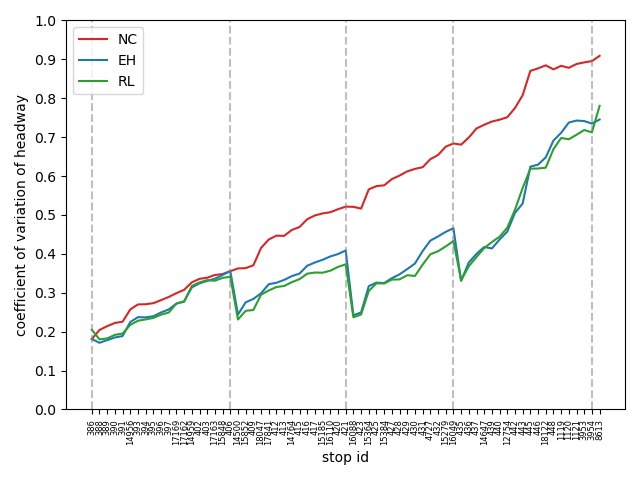
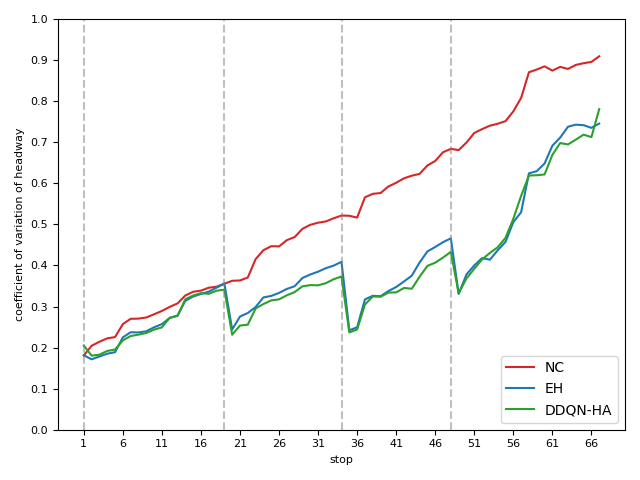
tr-c paper graphs

diff --git a/src/04_SIMULATION/trc_paper.py b/src/04_SIMULATION/trc_paper.py
@@ -1,0 +1,59 @@
+import matplotlib.pyplot as plt
+import numpy as np
+import pandas as pd
+from post_process import *
+
+x = np.arange(0, 1.2, 1/3)
+y0 = np.array([1/3, 1, 2, 10/3])
+y1 = np.array([2, 1, 1/3, 0])
+y_sum = y0 + y1
+idx_min = np.argmin(y_sum)
+fig, ax = plt.subplots()
+ax.plot(x, y0, label='bus $\it{i}$')
+ax.plot(x, y1, label='bus $\it{i+1}$')
+ax.plot(x, y_sum, label='total')
+ax.set_xlabel('hold time of bus $\it{i}$ (units of $\it{H}$)')
+ax.set_ylabel('total wait time')
+ax.set_xticks(x)
+ax.set_xticklabels(['0', '1/3', '2/3', '1'])
+plt.axvline(1/3,alpha=0.3, color='gray', linestyle='dashed')
+plt.yticks([])
+plt.legend()
+plt.show()
+
+
+stops = load('in/xtr/rt_20-2019-09/route_stops.pkl')
+trips = pd.read_csv('out/trajectories2.csv')
+trips_sub = trips[trips['replication'] == 2]
+idx = stops.index('16049')
+focus_stops = [int(stops[i]) for i in range(idx-5, idx + 5)]
+trips_sub = trips_sub[trips_sub['stop_id'].isin(focus_stops)]
+trips_sub['stop_seq'] = np.nan
+j = 0
+for s in focus_stops:
+    trips_sub.loc[trips_sub['stop_id'] == s, 'stop_seq'] = j
+    j += 1
+trip_ids = trips_sub['trip_id'].unique().tolist()
+t0 = 27000
+t1 = 33000
+for t in trip_ids:
+    trips_sub_id = trips_sub[trips_sub['trip_id'] == t]
+    x1, y1 = trips_sub_id['arr_sec'].to_numpy(), trips_sub_id['stop_seq'].to_numpy()
+    mask = (x1 > t0) & (x1 < t1)
+    x1 = x1[mask]
+    y1 = y1[mask]
+    x2, y2 = trips_sub_id['dep_sec'].to_numpy(), trips_sub_id['stop_seq'].to_numpy()
+    mask = (x2 > t0) & (x2 < t1)
+    x2 = x2[mask]
+    y2 = y2[mask]
+    x = np.append(x1, x2)
+    y = np.append(y1, y2)
+    sorted_idx = np.argsort(y)
+    x = x[sorted_idx]
+    y = y[sorted_idx]
+    plt.plot(x, y, color='darkturquoise')
+plt.xlabel('seconds', fontsize=8)
+plt.xticks([i for i in range(29500, 32500, 500)], fontsize=8)
+plt.yticks([i for i in range(len(focus_stops))], [i for i in range(idx-5, idx+5)], fontsize=8)
+plt.ylabel('stop', fontsize=8)
+plt.show()

diff --git a/src/04_SIMULATION/post_process.py b/src/04_SIMULATION/post_process.py
@@ -725,24 +725,23 @@ def plot_headway_benchmark(cv_hw_set, ordered_stops, lbls, colors, pathname=None
     x = np.arange(len(ordered_stops))
     j = 0
     for cv in cv_hw_set:
-        # x = []
-        # y = []
-        # for i in range(len(ordered_stops)):
-        #     s = ordered_stops[i]
-        #     y.append(hs[s])
-
         ax1.plot(x, cv, color=colors[j], label=lbls[j])
         j += 1
 
-    ax1.set_xlabel('stop id')
-    ax1.set_ylabel('coefficient of variation of headway')
+    ax1.set_xlabel('stop', fontsize=8)
+    ax1.set_ylabel('coefficient of variation of headway', fontsize=8)
     ax1.set_yticks(np.arange(cv_scale[0], cv_scale[1] + cv_scale[2], cv_scale[2]))
+    ax1.set_yticklabels(np.arange(cv_scale[0], cv_scale[1] + cv_scale[2], cv_scale[2]).round(decimals=1), fontsize=8)
     if controlled_stops:
         for cs in controlled_stops:
             idx = ordered_stops.index(cs)
             plt.axvline(x=idx, color='gray', alpha=0.5, linestyle='dashed')
-    ax1.set_xticks(x)
-    ax1.set_xticklabels(ordered_stops, fontsize=6, rotation=90)
+    # ax1.set_xticks(x)
+    # ax1.set_xticklabels(ordered_stops, fontsize=6, rotation=90)
+    x_ticks = np.arange(0, len(ordered_stops), 5)
+    x_tick_labels = x_ticks + 1
+    ax1.set_xticks(x_ticks)
+    ax1.set_xticklabels(x_tick_labels, fontsize=8)
     plt.legend()
     plt.tight_layout()
     if pathname:

diff --git a/src/04_SIMULATION/main_simul.py b/src/04_SIMULATION/main_simul.py
@@ -197,13 +197,13 @@ path_p_rl = 'out/RL/pax_set_0106-191406.pkl'
 # #
 
 # PROCESS RAW RESULTS
-# path_trips = [path_tr_nc, path_tr_eh, path_tr_rl]
-# path_pax = [path_p_nc, path_p_eh, path_p_rl]
-# tags = ['NC', 'EH', 'RL']
-# post_processor = PostProcessor(path_trips, path_pax, tags)
+path_trips = [path_tr_nc, path_tr_eh, path_tr_rl]
+path_pax = [path_p_nc, path_p_eh, path_p_rl]
+tags = ['NC', 'EH', 'DDQN-HA']
+post_processor = PostProcessor(path_trips, path_pax, tags)
 # post_processor.write_trajectories()
 # post_processor.total_trip_time_distribution()
-# post_processor.headway()
+post_processor.headway()
 # post_processor.load_profile()
 # post_processor.denied()
 # post_processor.hold_time()
@@ -213,14 +213,14 @@ path_p_rl = 'out/RL/pax_set_0106-191406.pkl'
 
 
 # VALIDATION
-path_trips = [path_tr_nc]
-path_pax = [path_p_nc]
-post_processor = PostProcessor(path_trips, path_pax, ['NC'])
+# path_trips = [path_tr_nc]
+# path_pax = [path_p_nc]
+# post_processor = PostProcessor(path_trips, path_pax, ['NC'])
 # post_processor.departure_delay_validation()
 # post_processor.dwell_time_validation()
 # post_processor.trip_time_dist_validation()
 # post_processor.load_profile_validation()
-post_processor.load_profile_base()
+# post_processor.load_profile_base()
 
 # PROCESS TRAJECTORIES FILE
 # stops = post_process.load('in/xtr/rt_20-2019-09/route_stops.pkl')

diff --git a/src/04_SIMULATION/scratch.py b/src/04_SIMULATION/scratch.py
@@ -15,29 +15,3 @@ from scipy.stats import lognorm, norm
 import seaborn as sn
 from post_process import *
 
-
-class Bus:
-    def __init__(self, bus_id, active_trip=None, next_event_time=None):
-        self.active_trip = active_trip
-        self.bus_id = bus_id
-        self.next_event_time = next_event_time
-
-
-buses = [Bus(i, i + 10, i*10) for i in range(10)]
-buses.append(Bus(10))
-buses.append(Bus(11, 11+10, 0))
-
-active_buses = [bus for bus in buses if bus.active_trip]
-
-next_bus = min(active_buses, key=lambda bus: bus.next_event_time)
-print(next_bus)
-
-next_event_times = [bus.next_event_time for bus in active_buses]
-min_event_time = min(next_event_times)
-min_event_time_idxs = [i for i, x in enumerate(next_event_times) if x == min_event_time]
-print(min_event_time_idxs)
-for i in min_event_time_idxs:
-    print(active_buses[i])
-print(buses[0])
-print(buses[-1])
-

diff --git a/src/04_SIMULATION/simulation_env.py b/src/04_SIMULATION/simulation_env.py
@@ -949,7 +949,7 @@ class DetailedSimulationEnvWithDeepRL(DetailedSimulationEnv):
                 sum_rew_behind_wait_time += pax.wait_time
         # reward = (sum_reward_neighbor_ride_time + WEIGHT_WAIT_TIME*(sum_reward_neighbor_wait_time + sum_reward_behind_wait_time))
         # ride_time_impacted = neighbor_prev_load + neighbor_prev_pax_at_stop
-        tot_pax = behind_board_count + agent_board_count
+        # tot_pax = behind_board_count + agent_board_count
         reward = (sum_rew_behind_wait_time + sum_rew_agent_wait_time)
         reward = -reward / 60 / 60
         # wait_time_impacted = agent_board_count + behind_board_count

diff --git a/src/04_SIMULATION/output.py b/src/04_SIMULATION/output.py
@@ -40,7 +40,7 @@ class PostProcessor:
                                                                    controlled_stops=CONTROLLED_STOPS)
             cv_hw_set.append(temp_cv_hw)
         plot_headway_benchmark(cv_hw_set, STOPS, self.cp_tags, self.colors, pathname='out/benchmark/hw.png',
-                               controlled_stops=CONTROLLED_STOPS)
+                               controlled_stops=CONTROLLED_STOPS[:-1])
 
         print(f'mean cv headway {[np.mean(cv) for cv in cv_hw_set]}')
         return
